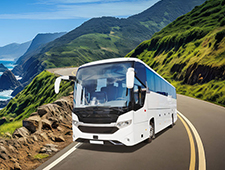
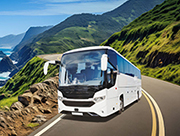
w0310

diff --git a/70_pf/dothome/hana/index.html b/70_pf/dothome/hana/index.html
@@ -25,7 +25,17 @@
             </nav>
         </header>
         <!-- 콘텐츠 -->
-        <div class="contents"></div>
+        <div class="contents">
+            <!-- 배너 -->
+            <div class="banner"></div>
+            <!-- 공지사항 -->
+            <div class="notice"></div>
+            <!-- 갤러리 -->
+            <div class="gallery"></div>
+            <!-- 바로가기 링크 -->
+            <div class="link"></div>
+        </div><!-- //.contents end -->
+
         <!-- 슬라이드 -->
         <div class="slide">
             <ul>
@@ -34,9 +44,39 @@
                 <li><a href="#"><img src="images/slide3.jpg" alt="슬라이드 이미지3"></a></li> -->
             </ul>
         </div>
-    </div>
+    </div><!-- //.wrap end -->
     <!-- 푸터 -->
-    <footer></footer>
+    <footer>
+        <!-- 하단 로고 -->
+        <div class="blogo">
+            <img src="./images/blogo.png" alt="하단로고">
+        </div>
+        <!-- 하단 메뉴, 주소 및 저작권 -->
+        <div class="center_cont">
+            <ul class="bmenu">
+                <li><a href="#"></a>회사소개</li>
+                <li><a href="#"></a>이용약관</li>
+                <li><a href="#"></a>개인정보처리방침</li>
+                <li><a href="#"></a>여행약관</li>
+                <li><a href="#"></a>해외여행자보험</li>
+                <li><a href="#"></a>마케팅제휴</li>
+            </ul>
+            <p>주)하나투어 대표 : 송미선 주소 : (03161) 서울특별시 종로구 인사동 5길 41</p>
+            <p>COPYRIGHT HANATOUR SERVICE INC. ALL RIGHTS RESERVED</p>
+        </div>
+        <!-- 페밀리 사이트 -->
+        <div class="fs">
+            <form action="#">
+                    <select name="fs" id="fs">
+                        <option value="">패밀리 사이트</option>
+                        <option value="fs1">Cruise</option>
+                        <option value="fs2">BizMODE</option>
+                        <option value="fs3">하나투어 인터내셔널</option>
+                        <option value="fs3">다낭 스테이호텔</option>
+                    </select>
+                </form>
+        </div>
+    </footer>
 </body>
 
 </html>

diff --git a/70_pf/dothome/hana/css/style.css b/70_pf/dothome/hana/css/style.css
@@ -73,19 +73,66 @@ nav a {
 /* 콘텐츠 */
 .contents {
     width: 400px;
+}
+/* 배너 */
+.banner {
+    height: 120px;
     background: lightcoral;
 }
-
+/* 공지사항 */
+.notice {
+    height: calc(100% - 600px);
+}
+/* 갤러리 */
+.gallery {
+    height: 360px;
+    background: lightskyblue;
+}
+/* 바로가기 링크 */
+.link {
+    height: 120px;
+    background: darkkhaki;
+}
 /* 슬라이드 */
 .slide {
     width: calc(100% - 600px);
-    background: lightgreen;
-    /* overflow hidden;은 콘텐츠가 영역을 벗어나면 숨긴다. */
+     /* overflow hidden;은 콘텐츠가 영역을 벗어나면 숨긴다. */
     overflow: hidden;
 }
 
 /* 푸터 */
 footer {
+    display: flex;
     height: 120px;
-    background-color: yellow;
+    align-items: center;
+    background-color: #333;
+}
+/* 하단 로고 */
+.blogo {
+    width: 200px;
+}
+/* 하단 메뉴, 주소, 저작권 */
+.center_cont {
+    width: calc(100% - 500px);
+    padding-left: 60px;
+    color: #777;
+}
+/* 하단 메뉴 */
+.bmenu {
+    display: flex;
+    height: 30px;
+}
+.bmenu li {
+    margin-right: 16px;
+}
+.bmenu li:not(:last-child):after {
+    content: '|';
+    margin-left: 16px;
+}
+.bmenu a {
+    color: #c0c0c0;
+}
+/* 페밀리 사이트 */
+.fs {
+    width: 300px;
 }
